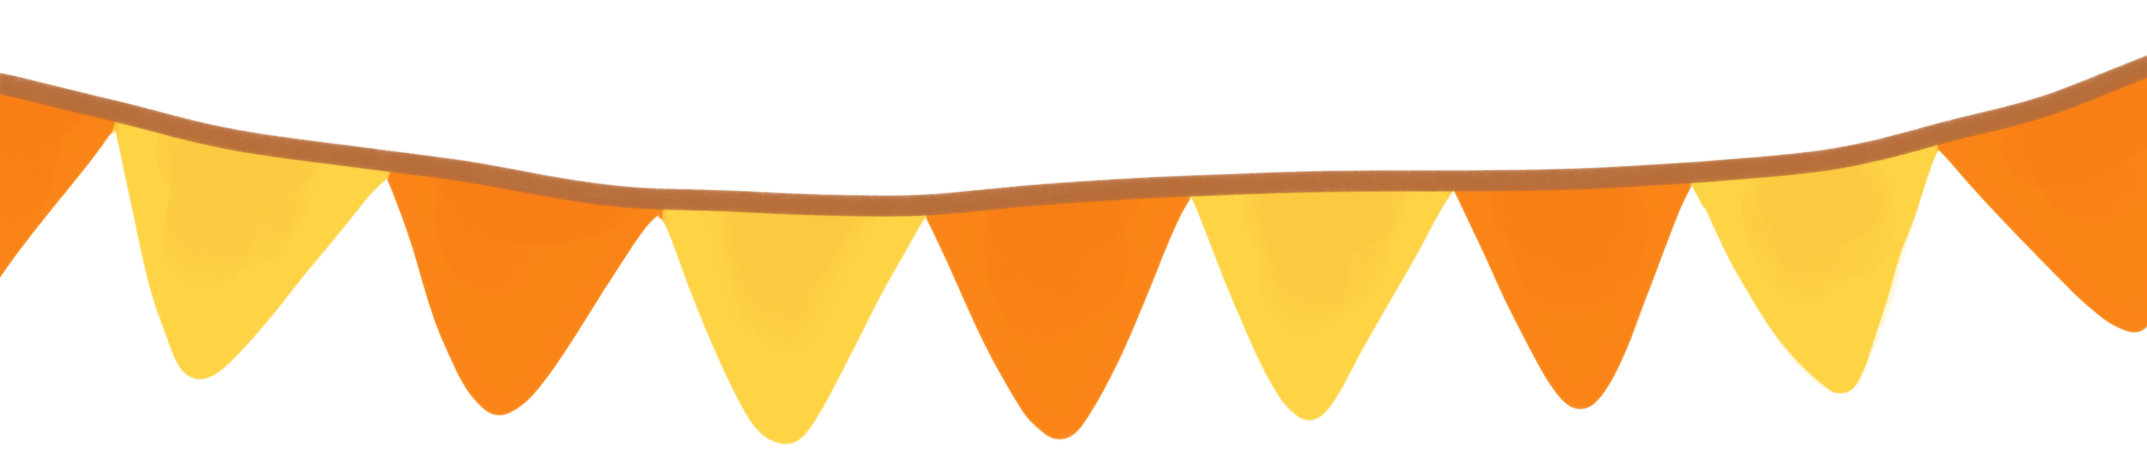
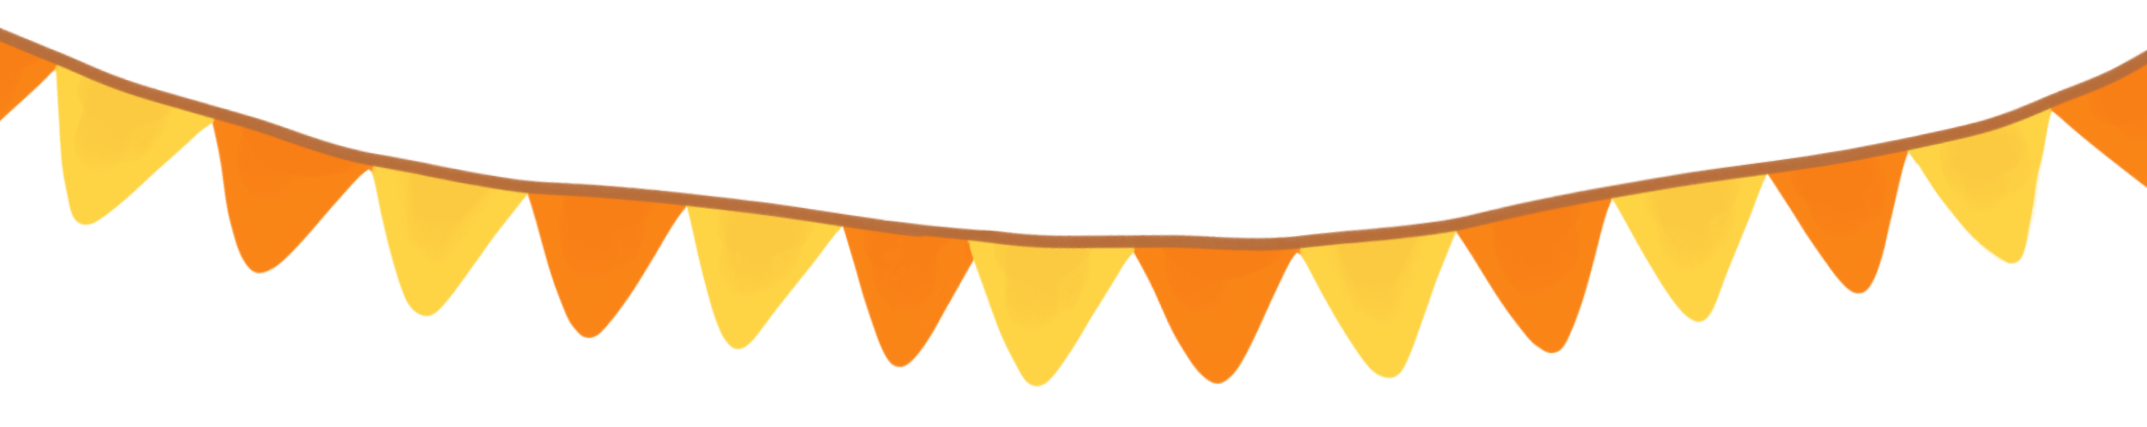
add supporter decor images

diff --git a/src/data/content.ts b/src/data/content.ts
@@ -1,4 +1,4 @@
-import type { Linked, Marked, Sponsor } from "./types";
+import type { Linked, Marked, Sponsor, ScheduleDay } from "./types";
 
 export const event = {
   name: "Haven",
@@ -10,12 +10,10 @@ export const rsvpCta = {
   label: "Not looking to organize?",
 } as const;
 
-
 export const about = {
   title: "What is a game jam?",
   body: "It’s a social coding event where you make a video game with friends + free food!",
 } as const;
-
 
 export type Perk = {
   id: string;
@@ -36,9 +34,7 @@ export const perks: Perk[] = [
     id: "build",
     title: "Learn & Build",
     side: "start",
-    blurb: [
-      "follow workshops or create at your own pace",
-    ],
+    blurb: ["follow workshops or create at your own pace"],
     photos: [
       {
         src: "/images/projects-1.webp",
@@ -50,7 +46,10 @@ export const perks: Perk[] = [
         src: "/images/projects-3.webp",
         alt: "Office Click Clack, a game made at a past event",
         href: "https://theavgeekbee.itch.io/office-click-clack",
-        caption: { title: "office click clack", author: "by bunnyguy and nathan" },
+        caption: {
+          title: "office click clack",
+          author: "by bunnyguy and nathan",
+        },
       },
     ],
   },
@@ -78,7 +77,6 @@ export const perks: Perk[] = [
     ],
   },
 ];
-
 
 export type Pitch = {
   id: string;
@@ -137,7 +135,6 @@ export const pitches: Pitch[] = [
   },
 ];
 
-
 export const scheduleHeading = "What happens on the day?";
 
 export const scheduleTbd = {
@@ -145,12 +142,44 @@ export const scheduleTbd = {
   body: "We’re still working out the schedule. Sign up and we'll let you know as soon as we figure it out!",
 } as const;
 
+export const schedule: ScheduleDay[] = [
+  {
+    day: "Saturday",
+    items: [
+      {
+        time: "10:00 am",
+        title: "check in :3",
+        body: "yada yada body text",
+      },
+      {
+        time: "11:00 am",
+        title: "meow",
+        body: "yada yada body text",
+      },
+      {
+        time: "12:00 am",
+        title: "mraow",
+        body: "yada yada body text",
+      },
+    ],
+  },
+  {
+    day: "Sundayy",
+    items: [
+      {
+        time: "10:00 am",
+        title: "check in :3",
+        body: "yada yada body text",
+      },
+    ],
+  }
+];
+
 export const stepsHeading =
   "Here is how you can organize a game jam this November!";
 
 export const stepsSubheading =
   "(Don't worry, we'll guide you through each step)";
-
 
 export const steps = [
   {
@@ -273,7 +302,8 @@ export const supporters: Sponsor[] = [
 
 export const sponsorsHeading = "Our sponsors";
 
-const HAVEN_GUIDE_LINK = "https://docs.google.com/document/d/1f_uFvFP4gD01YhXBmU9jBfEBU9QMvr1L5yJTKWBBhbA/edit?usp=sharing";
+const HAVEN_GUIDE_LINK =
+  "https://docs.google.com/document/d/1f_uFvFP4gD01YhXBmU9jBfEBU9QMvr1L5yJTKWBBhbA/edit?usp=sharing";
 const HAVEN_EMAIL = "mailto:haven@hackclub.com";
 
 export const faqs: { q: string; a: Linked }[] = [
@@ -332,7 +362,7 @@ export const faqs: { q: string; a: Linked }[] = [
         text: "We’re here to help! You can see our ",
       },
       { text: "parent guide", href: HAVEN_GUIDE_LINK },
-      { text: " here, or they can reach out to us at "},
+      { text: " here, or they can reach out to us at " },
       { text: "haven@hackclub.com", href: HAVEN_EMAIL },
       { text: " for questions." },
     ],

diff --git a/src/styles/global.css b/src/styles/global.css
@@ -151,19 +151,6 @@
     }
   }
 
-  .scene-harvest {
-    min-height: calc(100vw * 1170 / 1149);
-    background:
-      url("/images/faq-bg.webp") top center / 100% auto no-repeat,
-      var(--color-haven-green);
-  }
-
-  @media (width >= 48rem) {
-    .scene-harvest {
-      container-type: inline-size;
-    }
-  }
-
   .rule-frame {
     position: relative;
     --frame-color: var(--color-haven-yellow);
